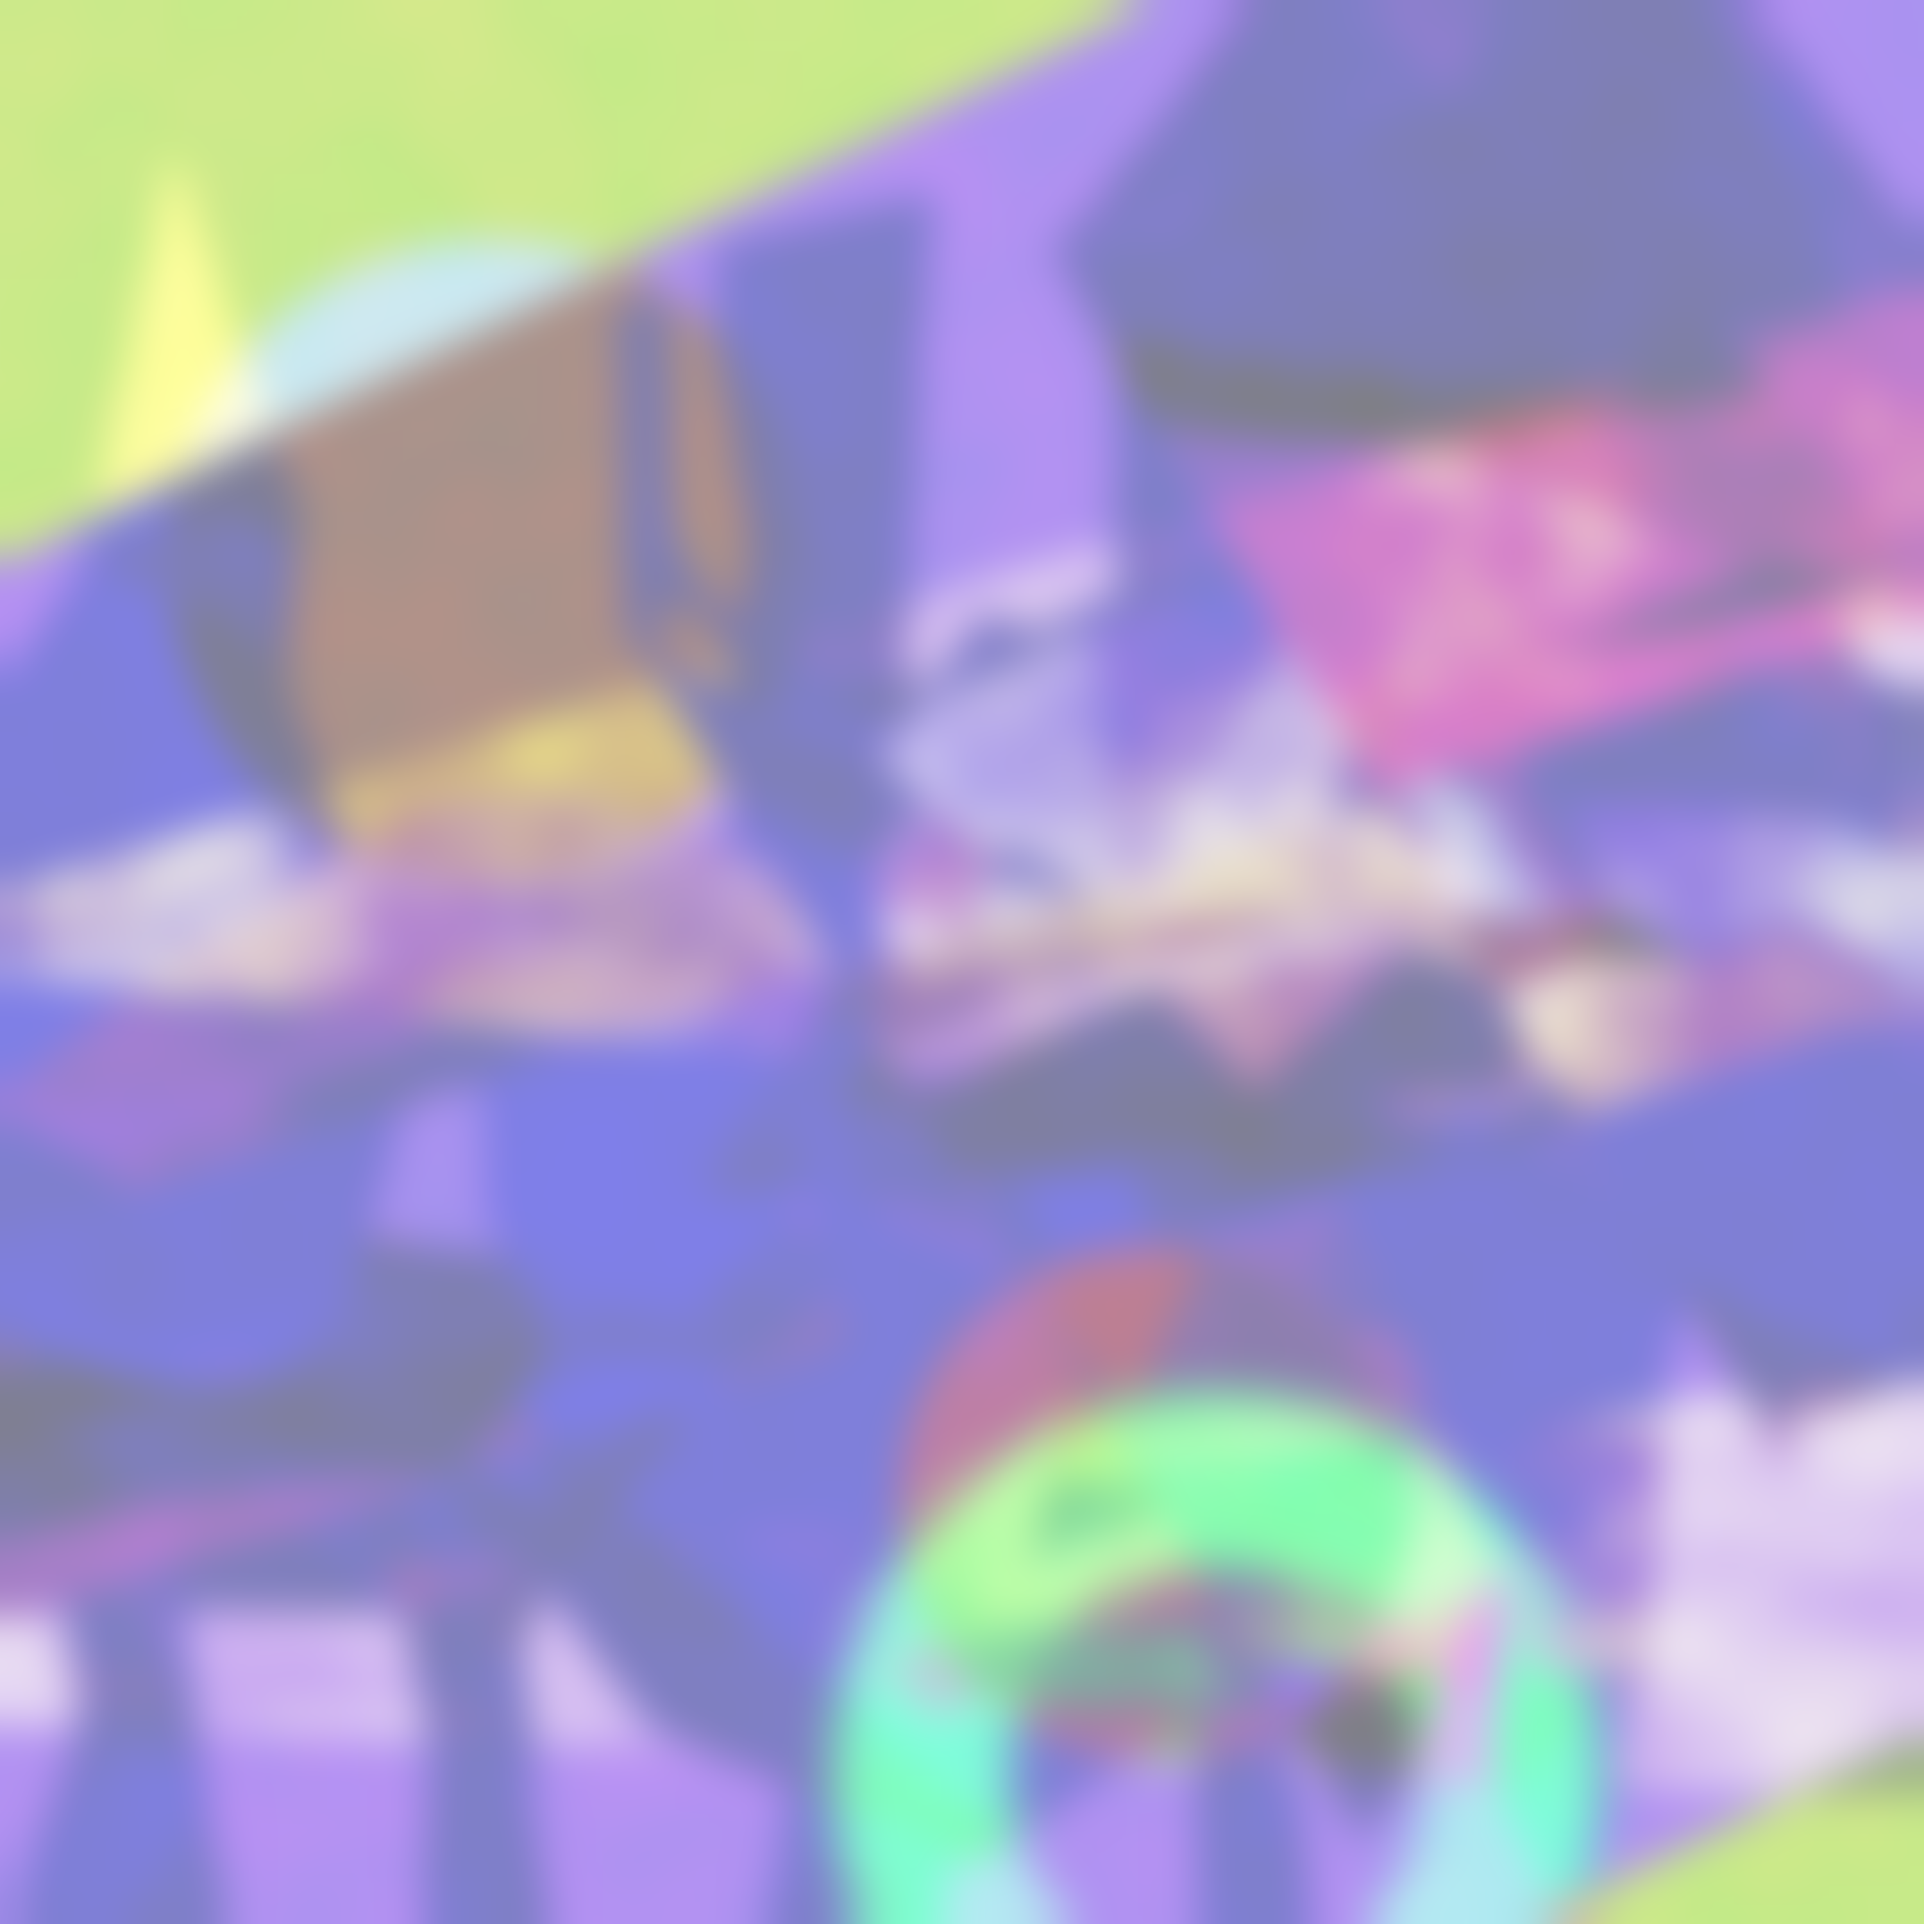
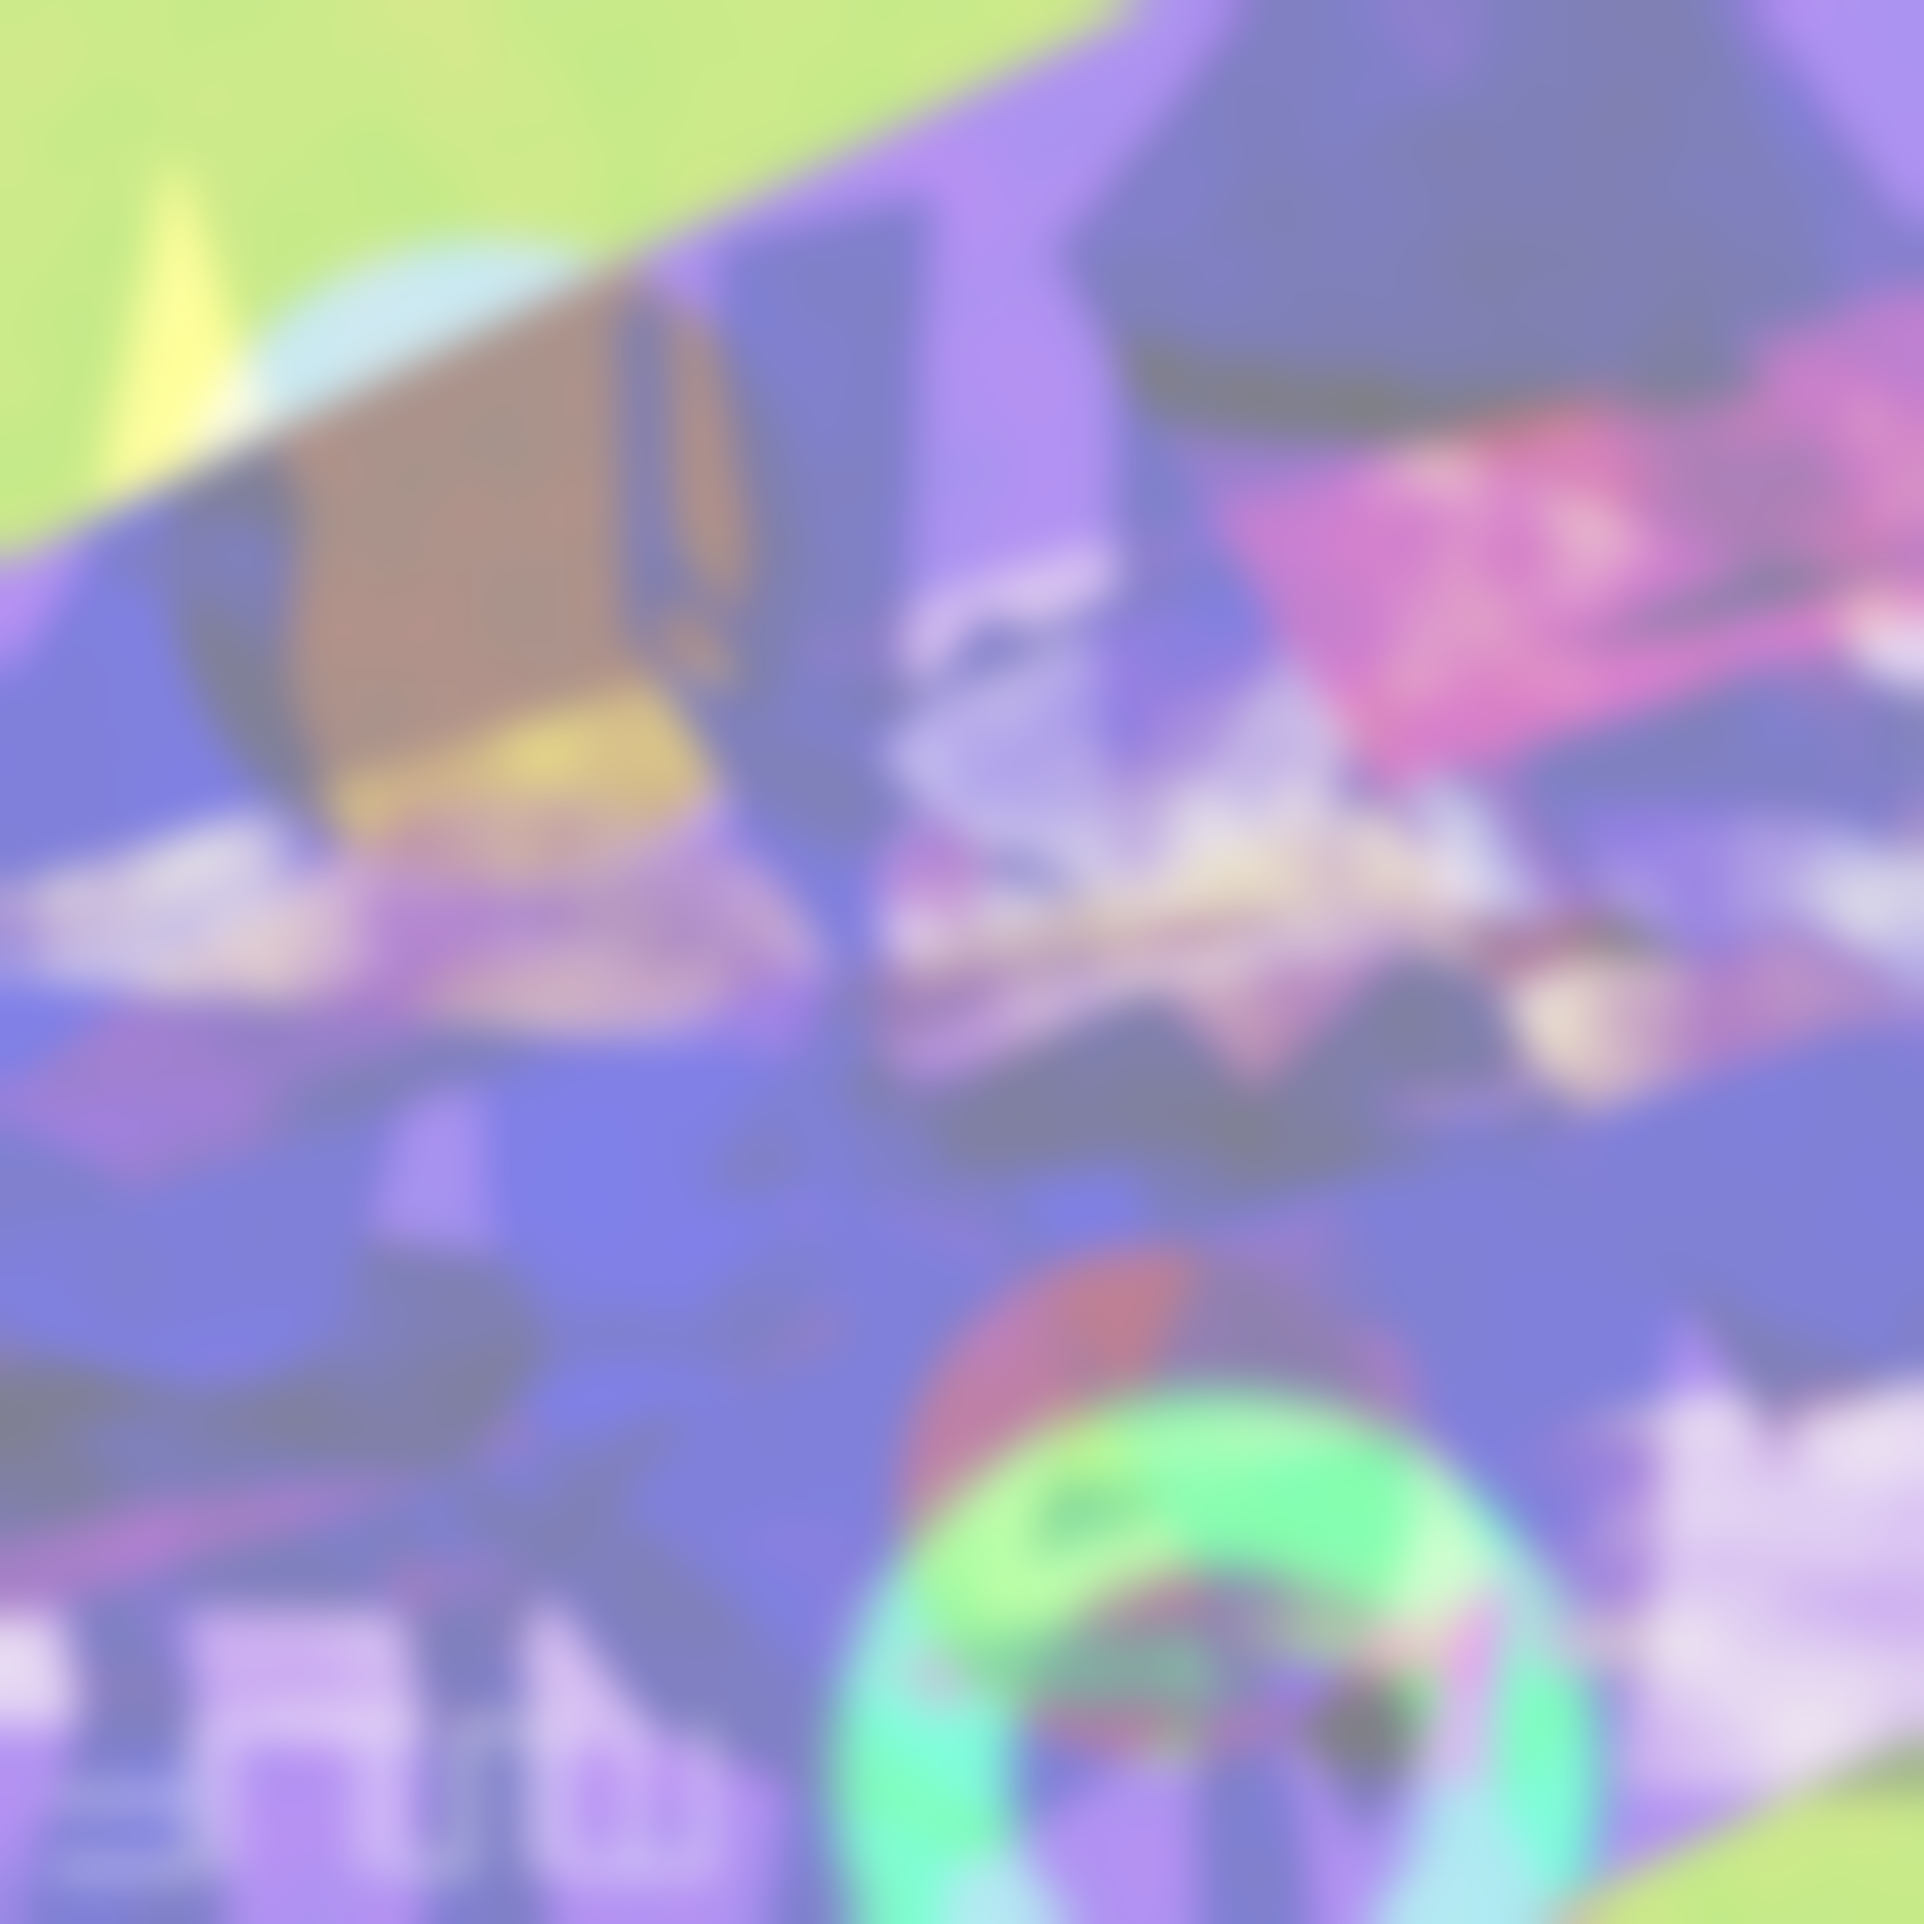
putting utopian up

Changed region(s): [[0.186, 0.868, 0.341, 0.992], [0.062, 0.899, 0.124, 0.992]]

diff --git a/utopian/index.html b/utopian/index.html
@@ -1,0 +1,39 @@
+<!DOCTYPE html>
+<html>
+<head>
+<title>Utopian</title>
+<link rel="shortcut icon" href="../Logo.png" />
+<link rel = "stylesheet" type = "text/css" href = "../stylesheet.css"/>
+</head>
+<body>
+<br><br><br><br><br><br>
+<a href="https://astronomy487.github.io"><img class="homebutton" src="../Logo.png"></a>
+
+<table>
+
+<tr>
+  <td>
+    <img class="albumart" src="art.png">
+  </td>
+  <td>
+    <p class="title">Utopian</p>
+	<p class="caption">12 songs</p>
+	<p class="tracklist">1. A Hundred Years - 2. Fly Away - 3. Further from Free - 4. Air - 5. Final Breath - 6. Infancy of Home - 7. Forgotten Age - 8. Thank You in Advance - 9. We're Taking Everything Back - 10. After Centuries - 11. Coming Home - 12. If Only I Were Here</p>
+    <p class="nfgeb">F&emsp;N&emsp;K&emsp;J</p>
+  </td>
+</tr>
+
+</table>
+</body>
+
+<style>
+body {
+  background-image: url("art-background.png");
+  height: 100%; 
+  background-position: center;
+  background-repeat: no-repeat;
+  background-size: cover;
+}
+</style>
+
+</html>

diff --git a/stylesheet.css b/stylesheet.css
@@ -9,6 +9,8 @@
 * {
   font-family: AvenirLTStd-Light;
   font-weight: light;
+  --utopian: #fa8dac;
+  --chase-an-idea: #493c8e;
 }
 .nfgeb {
   font-family: NFGEB;
@@ -21,8 +23,8 @@ body {
 .banner {
   margin: auto;
   background-color: rgba(255, 255, 255, .5);
-  padding: 20px;
-  margin: 10px;
+  padding: 3px;
+  margin: 3px;
   text-align: center;
 }
 h1 {

diff --git a/index.html b/index.html
@@ -20,6 +20,10 @@
   </span><br><br><br>
 </div>
 
-<br><br><br><br><br><br>
+<br>
+
+<a class="albumindex" href="./utopian"><img class="smallart" src="./utopian/art.png"></a>
+
+<br>
 
 <a class="albumindex" href="./chase-an-idea"><img class="smallart" src="./chase-an-idea/art.png"></a>
